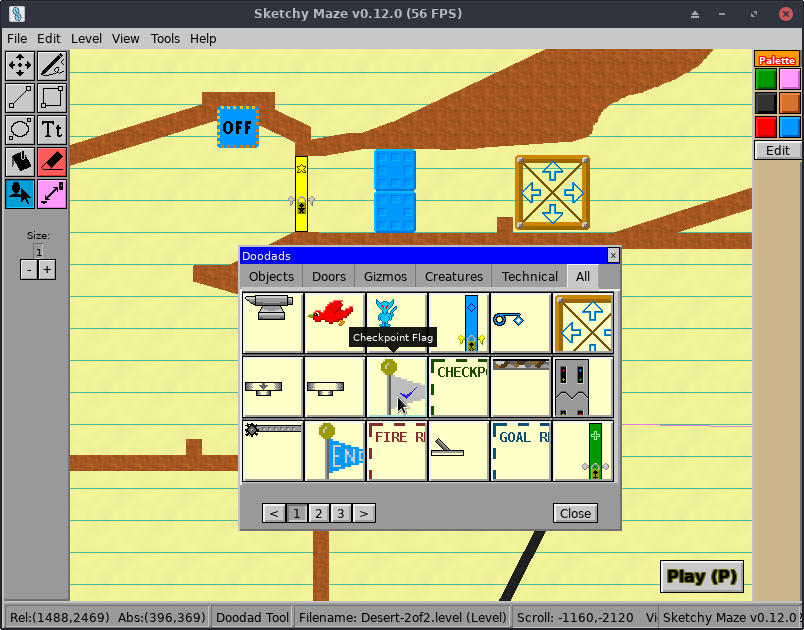
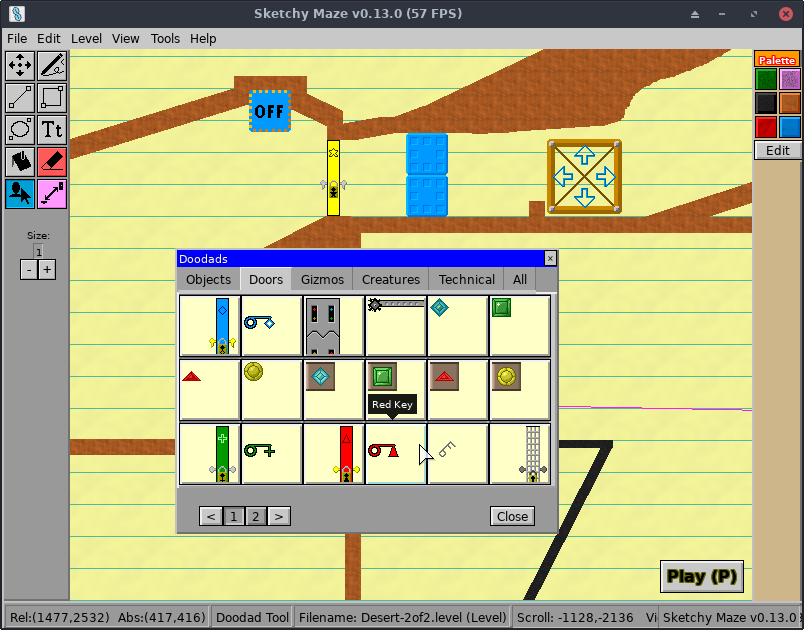
Update docs for v0.13.0

diff --git a/docs/changes.md b/docs/changes.md
@@ -1,5 +1,119 @@
 # Changes
 
+## v0.13.0 (May 7 2022)
+
+This is a major update that brings deep architectural changes and a lot
+of new content to the game.
+
+Swimming physics have been added:
+
+* The **water** pixels finally do something besides turn the character
+  blue: swimming physics have finally been hooked up!
+* While the player is touching water pixels (and is colored blue),
+  your gravity and jump speed are reduced, but you can "jump"
+  infinite times in order to swim higher in the water. Hold the jump
+  button to climb slowly, spam it to climb quickly.
+* The **Azulians** understand how to swim, too, though left to their
+  own devices they will sink to the bottom of a body of water. They'll
+  swim (jump) up if you're detected and above them. The Blue Azulian
+  has the shortest vertical aggro radius, so it's not a very good swimmer
+  but the White Azulian can traverse water with ease and track you
+  from a greater distance.
+
+New levels:
+
+* **The Jungle** (First Quest) - a direct sequel to the Boat level, it's
+  a jungle and Mayan themed platformer featuring many of the new doodads
+  such as snakes, gemstones, and crushers.
+* **Gems & Totems** (Tutorial, Lesson 4) - a tutorial level about the
+  new Gem and Totem doodads.
+* **Swimming** (Tutorial, Lesson 5) - a tutorial level to learn how
+  "water pixels" work with some moderately safe platforming puzzles
+  included.
+* **Night Sky** (Azulian Tag) - a moderately difficult Azulian Tag level
+  with relatively few enemies but plenty of tricky platforming.
+* Some of the existing levels have had minor updates to take advantage
+  of newer game features, such as the water being re-done for the Castle
+  level.
+
+New doodads:
+
+* **Blue Bird:** a blue version of the Bird which flies in a sine wave
+  pattern about its original altitude, and has a larger search range to
+  dive at the player character.
+* **Snake:** a green snake that sits coiled up and always faces the
+  player. If you get nearby and try and jump over, the Snake will jump
+  up and hope to catch you.
+* **Crusher:** a block-headed enemy with an iron helmet which tries to
+  drop on you from above. Its helmet makes a safe platform to ride
+  back up like an elevator.
+* **Gems and Totems:** four collectible gems (in different colors and
+  shapes) that slot into Totems of a matching shape. Totems can link
+  together to require multiple gemstones before they'll emit a power
+  signal to other linked doodads.
+
+New **File Formats**:
+
+* Levels and Doodads have a new file format based on ZIP files,
+  like levelpacks.
+* It massively improves loading screen times and helps the
+  game keep a substantially lighter memory footprint (up to 85%
+  less memory used, like 1.5 GB -> 200 MB on _Azulian Tag - Forest_).
+* **Your old levels and doodads still work**! The next time you save
+  them, they will be converted to the new file format automatically.
+* The `doodad` tool can also upgrade your levels by running:
+  `doodad edit-level --touch <filename>.level`
+
+Other new content to use in your levels:
+
+* New wallpapers: Dotted paper (dark), Parchment paper (red, blue,
+  green, and yellow).
+* New palette: Neon Bright, all bright colors to pair with a dark level
+  wallpaper.
+* New brush pattern: Bubbles. The default "water" color of all the game's
+  palettes will now use the Bubbles pattern by default.
+
+New cheat codes:
+
+* `super azulian`: play as the Red Azulian.
+* `hyper azulian`: play as the White Azulian.
+* `bluebird`: play as the Blue Bird.
+* `warp whistle`: automatically win the current level, with a snarky
+  cheater message in the victory dialog. It will mark the level as
+  Completed but not reward a high score.
+* `$ d.SetPlayerCharacter("anything.doodad")` - set your character to any
+  doodad you want, besides the ones that have dedicated cheat codes. The
+  ".doodad" suffix is optional. Some to try out are "key-blue", "anvil",
+  or "box". If you are playing as a key, a mob might be able to collect
+  you! This will softlock the level, but another call to
+  `d.SetPlayerCharacter()` will fix it! Use the `pinocchio` cheat or
+  restart the game to return to the default character (boy.doodad)
+
+Updates to the JavaScript API for doodads:
+
+* `Self.IsWet() bool` can test if your actor is currently in water.
+
+Other changes this release:
+
+* Editor: fancy **mouse cursors** gives some visual feedback about what
+  tool is active in the editor, with a Pencil and a Flood Fill
+  cursor when those tools are selected.
+* Editor: your **Palette** buttons will now show their pattern with their
+  color as the button face, rather than just the color.
+* Editor: Auto-save is run on a background thread so that, for large
+  levels, it doesn't momentarily freeze the editor on save when it runs.
+* Editor: Fix the Link Tool forgetting connections when you pick up and
+  drop one of the linked doodads.
+* Link Tool: if you click a doodad and don't want to link it to another,
+  click the first doodad again to de-select it (or change tools).
+* Editor: your last scroll position on a level is saved with it, so the
+  editor will be where you left it when you reopen your drawing.
+* Doodad tool: `doodad edit-level --resize <int>` can re-encode a level
+  file using a different chunk size (the default has been 128).
+  Experimental! Very large or small chunk sizes can lead to different
+  performance characteristics in game!
+* Fixed the bug where characters' white eyes were showing as transparent.
+
 ## v0.12.1 (April 16 2022)
 
 This update focuses on memory and performance improvements for the game.

diff --git a/docs/doodads.md b/docs/doodads.md
@@ -21,11 +21,15 @@ linked together in your levels.
 * [Creatures](#creatures)
     * [Boy](#boy) - The player character
     * [Red Bird](#red-bird)
+    * [Blue Bird](#blue-bird) **NEW in v0.13.0**
     * [Azulians](#azulians)
     * [Thief](#thief)
+    * [Snake](#snake) - **NEW in v0.13.0**
+    * [Crusher](#crusher) - **NEW in v0.13.0**
 * [Doors & Trapdoors](#doors-trapdoors)
     * [Colored Locked Doors & Keys](#colored-locked-doors-keys)
     * [Small Key Doors](#small-key-doors)
+    * [Gems & Totems](#gems-totems) - **NEW in v0.13.0**
     * [Warp Doors](#warp-doors)
     * [Trapdoors](#trapdoors)
     * [Electric Door](#electric-door)
@@ -183,6 +187,14 @@ The Bird's behavior can vary according to the level's Difficulty rule:
 
 * Peaceful: the Bird will not attack any player and simply flies back and forth.
 
+### Blue Bird
+
+![Bird](images/doodads/bird-blue.gif)
+
+The Blue bird flies in a sine wave pattern while idle and, like the
+Red Bird, will dive and attack player characters who can't fly, but
+with a larger aggro radius than the red bird.
+
 ### Azulians
 
 ![Blue Azulian](images/doodads/blue-azulian.gif)
@@ -245,6 +257,34 @@ has special abilities compared to most other characters:
 * The player character _can_, though, pilfer items that the other Thieves have
   collected.
 
+### Snake
+
+![Snake](images/doodads/snake.gif)
+
+The **Snake** is a stationary enemy that always turns to face the player
+character. If you are near the snake and you jump, the Snake will also
+jump, hoping to catch you mid-air when you try and jump over!
+
+If you are playing **as** the snake, you stay in your idle animation
+while moving laterally and play the jump animation when you jump.
+Snakes are friendly to other Snakes but will still jump along with
+you.
+
+### Crusher
+
+![Crusher](images/doodads/crusher.gif)
+
+The **Crusher** is a trap that falls from above. It sleeps soundly
+until the player character approaches, and it will start peeking at
+you with one eye open. If you get below the Crusher, it will attempt
+to drop on top of you! It might also crush other mobile creatures
+who happen to get in the way.
+
+If you play **as** the Crusher you can travel through the air freely
+with antigravity enabled. The Crusher will peek in the direction you're
+moving (right or left, or both!) and puts on the angry drop face if
+you are moving downwards.
+
 ---
 
 ## Doors & Trapdoors
@@ -288,6 +328,36 @@ unlock as many Small Key Doors as the number of keys they hold.
 
 The Small Key Door is permanently unlocked after unlocking it once. A golden
 padlock appears on the door when it's locked, which disappears after unlocking.
+
+### Gems & Totems
+
+![Totems](images/doodads/totem.png)
+
+![Green Gemstone](images/doodads/gem-green.gif)&nbsp;
+![Blue Gemstone](images/doodads/gem-blue.gif)&nbsp;
+![Yellow Gemstone](images/doodads/gem-yellow.gif)&nbsp;
+![Red Gemstone](images/doodads/gem-red.gif)
+
+Gemstones are collectible items which slot into Totems blocks. The player can
+carry many of the same gemstone at a time and a gemstone is consumed when its
+matching totem is activated.
+
+The Totem emits a `power(true)` signal to linked doodads when it receives its
+gem stone. However, if the Totem is linked with _other_ Totems, it will not
+emit a power signal until _all_ of its linked Totems have their gem stones.
+
+To set up a multi-totem lock that opens an Electric Door only when all the
+gems have been collected:
+
+* Only one totem of the bunch needs to link to the Electric Door.
+* That same totem also needs to link to each of the other totems.
+
+You do not need to link every Totem to every Totem. Pick just one of
+your totems and link it to the Electric Door _and_ to all of the
+other totems, and it won't emit a power signal until itself and all
+its linked totems have gems.
+
+![How to link multiple totems together](images/totem-links.png)
 
 ### Warp Doors
 

diff --git a/docs/index.md b/docs/index.md
@@ -7,7 +7,7 @@ maps on paper. You can draw a level for a 2D platformer game, drag-and-drop
 "doodads" such as buttons and doors into your level, play it and share your
 levels with others.
 
-**Last Updated:** April 16, 2022 for Sketchy Maze v0.12.1.
+**Last Updated:** May 7, 2022 for Sketchy Maze v0.12.3.
 
 ## Table of Contents
 
